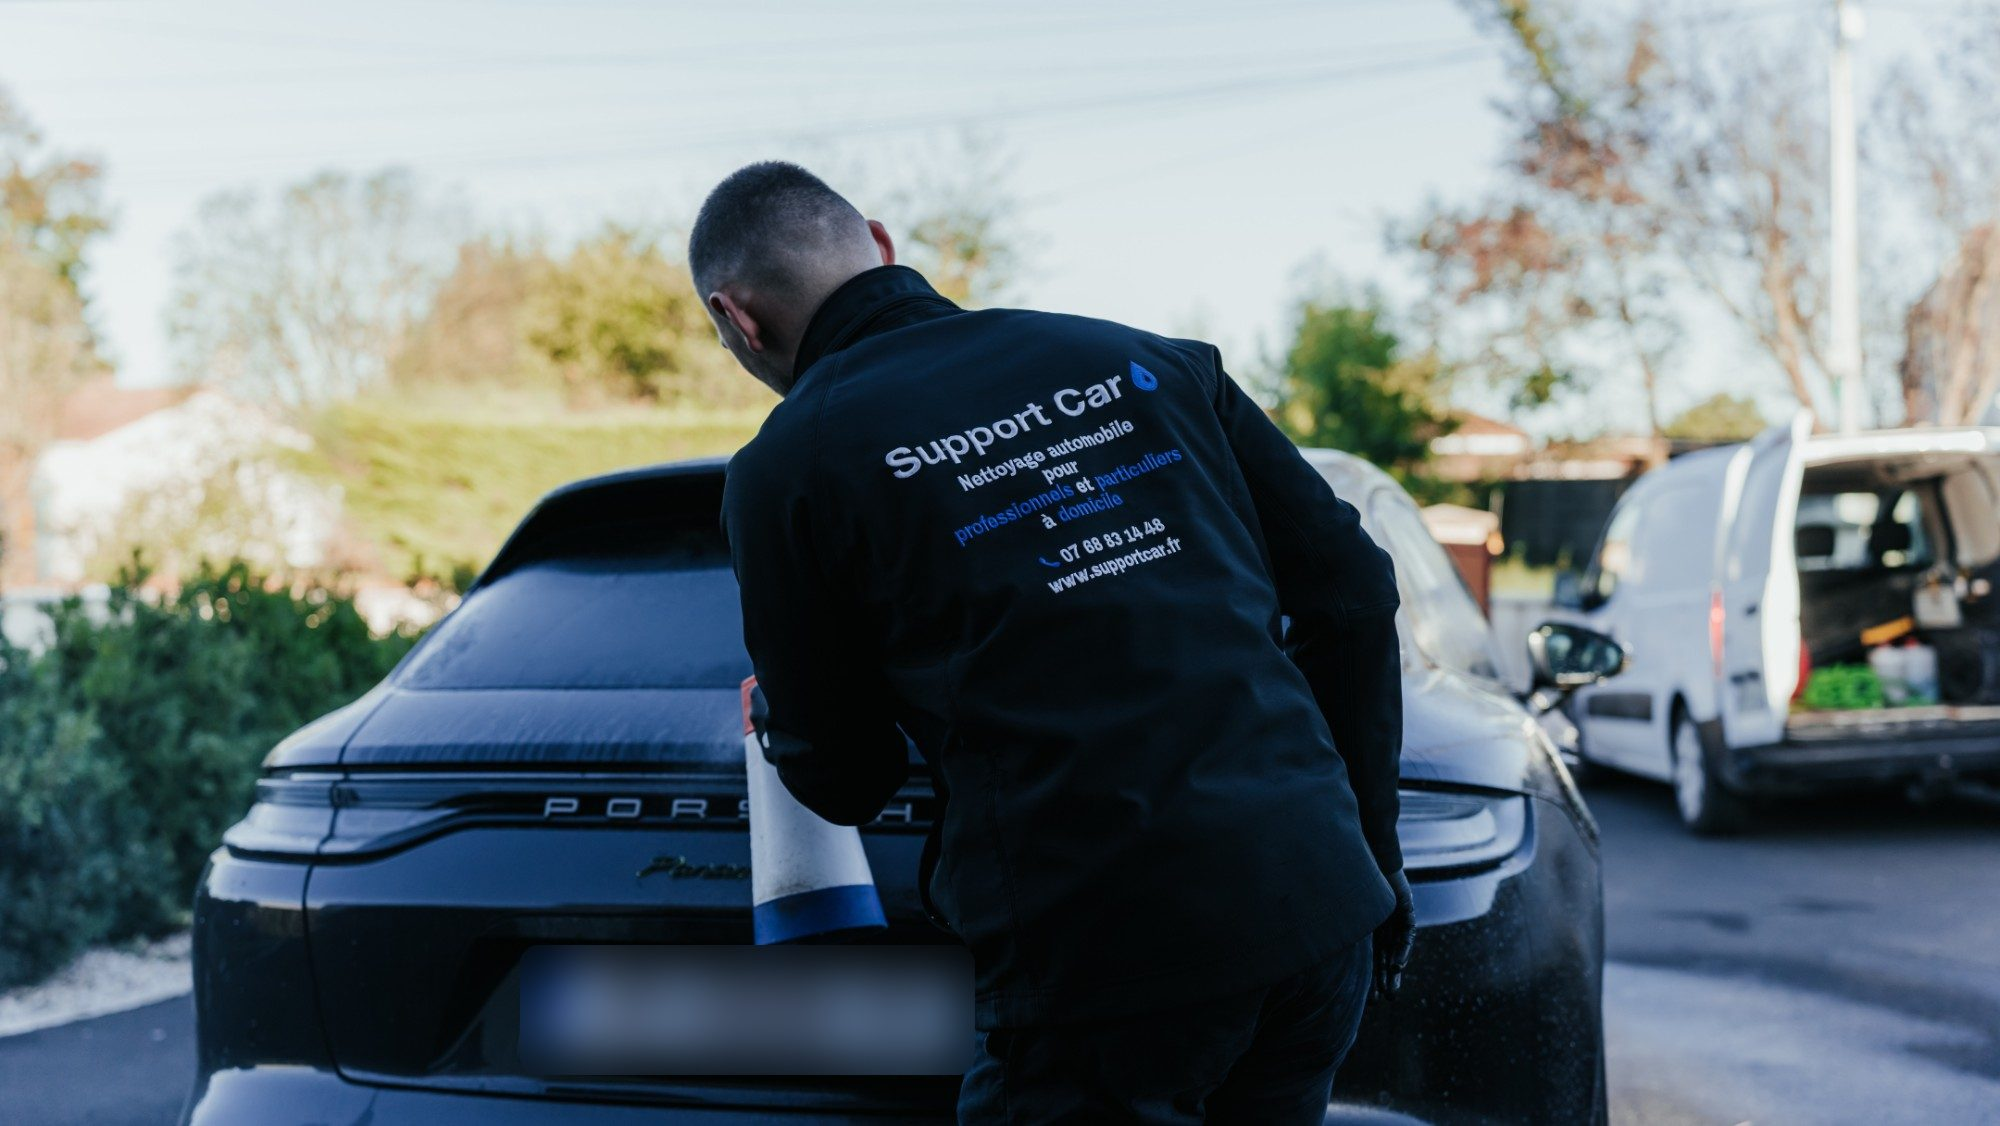
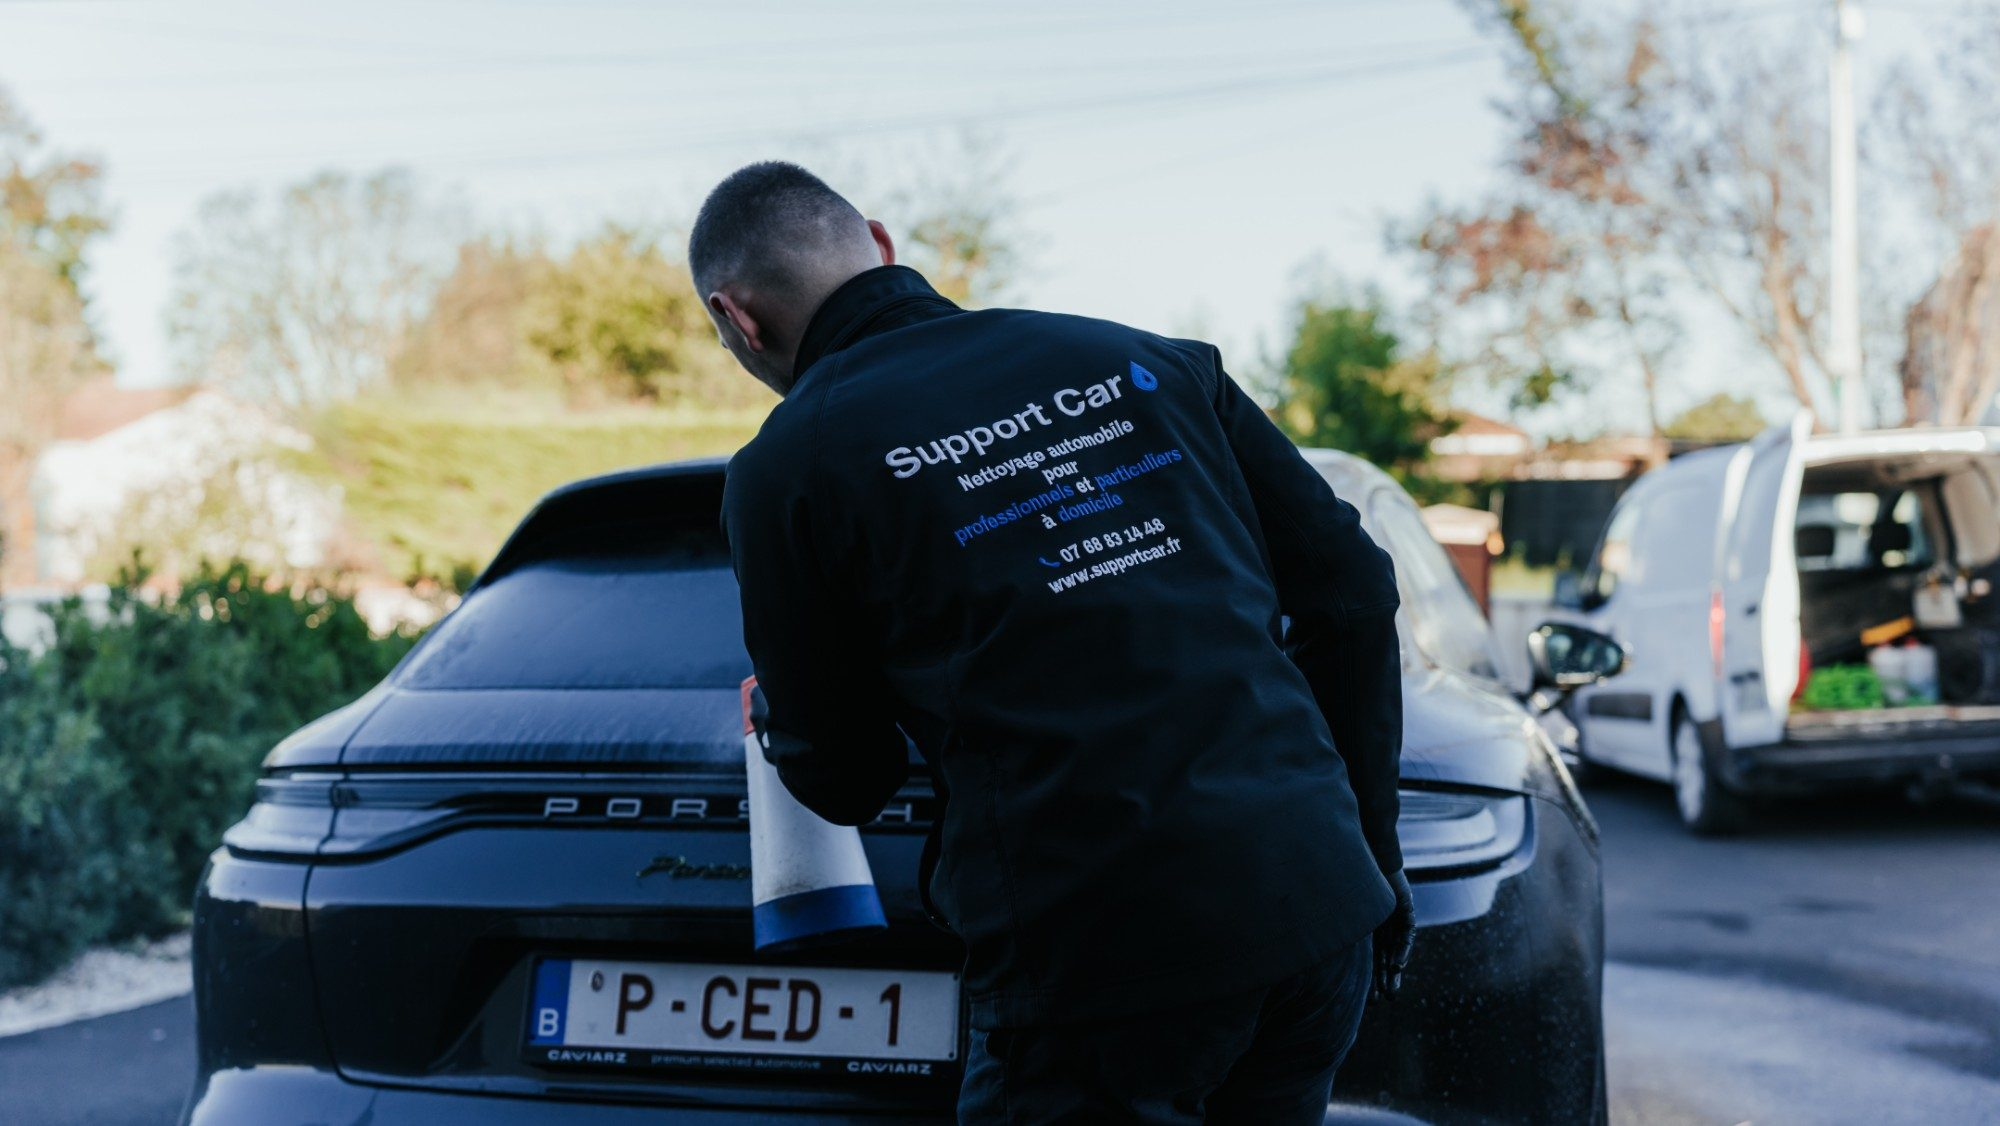
Accueil : photo d'origine sans flou, cadrage téléphone resserré
Claude-Session: https://claude.ai/code/session_01AGUucyYu4DmmQXbdTYAdAk

Changed region(s): [[0.248, 0.8393, 0.496, 0.9636]]

diff --git a/index.html b/index.html
@@ -14,7 +14,7 @@
 <meta property="og:url" content="https://supportcar.fr/">
 <link rel="icon" href="assets/favicon.svg" type="image/svg+xml">
 <link rel="preload" href="assets/fonts/inter-latin.woff2" as="font" type="font/woff2" crossorigin>
-<link rel="stylesheet" href="style.css?v=2414d7b816">
+<link rel="stylesheet" href="style.css?v=403ad6aa08">
 <script type="application/ld+json">
 {"@context":"https://schema.org","@type":"AutoWash","name":"Support Car","description":"Nettoyage automobile professionnel à domicile, polissage et traitement céramique en Vendée.","url":"https://supportcar.fr/","telephone":"+33768831448","email":"contact@supportcar.fr","image":"https://supportcar.fr/assets/og-image.jpg","areaServed":{"@type":"AdministrativeArea","name":"Vendée"},"priceRange":"€€","address":{"@type":"PostalAddress","addressRegion":"Vendée","addressCountry":"FR"}}
 </script>
@@ -64,7 +64,7 @@
       </div>
     </div>
     <div class="hero__media">
-      <img src="assets/accueil-equipe.jpg" alt="Maxime, de Support Car, en train de nettoyer une Porsche à domicile" width="2000" height="1126" fetchpriority="high">
+      <img src="assets/accueil-equipe.jpg?v=2" alt="Maxime, de Support Car, en train de nettoyer une Porsche à domicile" width="2000" height="1126" fetchpriority="high">
     </div>
   </div>
   <div class="wrap hero__services hero__services--a v vA">

diff --git a/style.css b/style.css
@@ -881,3 +881,4 @@ body.chat-open .chat-fab{opacity:0;pointer-events:none}
 @media (max-width:960px){.hero__media img{object-position:36% 50%}.hero__media::after{background:rgba(0,0,0,.6)}}
 /* Téléphone : photo d’accueil en entier, au-dessus du texte */
 @media (max-width:960px){.hero{padding-top:0;justify-content:flex-start;min-height:0}.hero__grid{gap:1.4rem}.hero__media{position:relative;inset:auto;order:-1;width:100vw;margin-left:calc(50% - 50vw);aspect-ratio:16/10}.hero__media img{object-position:50% 50%}.hero__media::after{background:linear-gradient(to bottom,rgba(0,0,0,0) 55%,#000)}}
+@media (max-width:960px){.hero__media{aspect-ratio:4/3}.hero__media img{object-position:30% 50%}}
